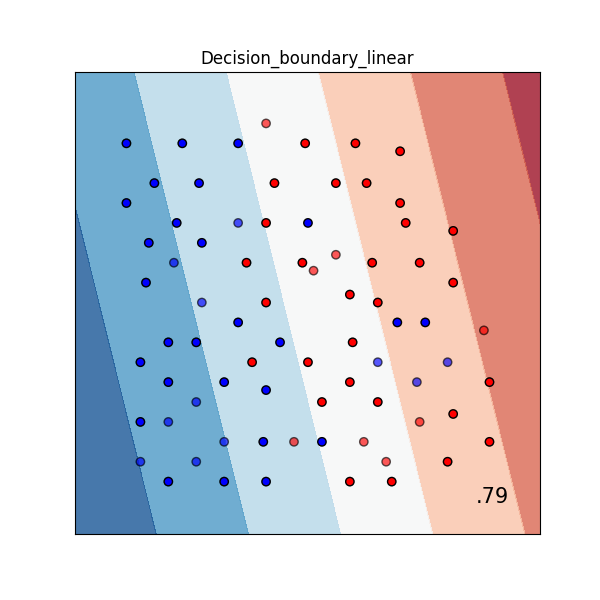
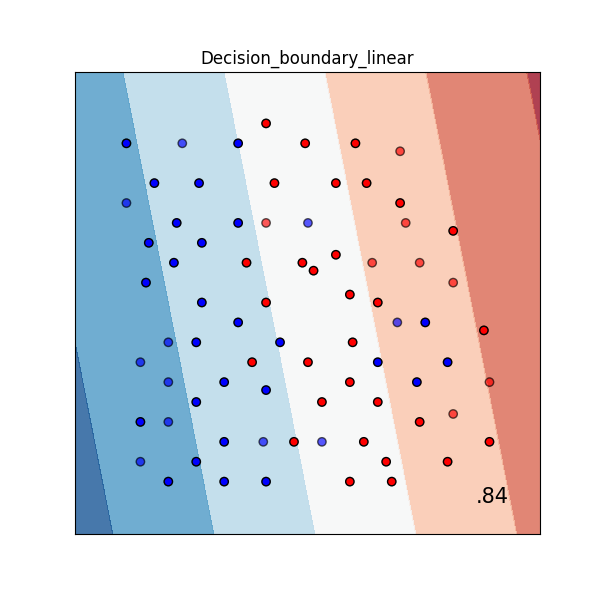
lab3: rbf angle done but chart looks weird

diff --git a/lab3/pum3-svm/main.py b/lab3/pum3-svm/main.py
@@ -122,7 +122,7 @@ def rbf_kernel_classic():
 
 def rbf_kernel_angular():
     def kernel_fun(X, Y):
-        distance = np.sum((Y - X[:, np.newaxis])**2, axis=-1)
+        distance = np.sum((Y - X[:, np.newaxis]) ** 2, axis=-1)  # todo nie brakuje pierwiastka???
         R_matrix = np.zeros(shape=distance.shape)
         R_matrix.fill(R)
         comparing_matrix = np.less(distance, R_matrix)
@@ -137,7 +137,7 @@ def rbf_kernel_angular():
 
 def rbf_kernel_linear():
     def kernel_fun(X, Y):
-        distance = np.sum((Y - X[:, np.newaxis])**2, axis=-1)
+        distance = np.sum((Y - X[:, np.newaxis]) ** 2, axis=-1)  # todo nie brakuje pierwiastka???
         R_matrix = np.zeros(shape=distance.shape)
         R_matrix.fill(R)
         comparing_matrix = np.subtract(R, distance)
@@ -155,9 +155,16 @@ def rbf_kernel_linear():
 
 def rbf_kernel_angle():
     def kernel_fun(X, Y):
-        cosinus = np.cos(X, Y)
-        print(cosinus)
-        return np.dot(X, Y.T)
+        x_size = X.shape[0]
+        y_size = Y.shape[0]
+        cosines = np.zeros(shape=(x_size, y_size))
+
+        print(f"counting for ({x_size}, {y_size})")
+        for i in range(x_size):
+            for j in range(y_size):
+                cosines[i][j] = np.dot(X[i], Y[j]) / (np.linalg.norm(X[i]) * np.linalg.norm(Y[j]))
+
+        return cosines
 
     rbf_angle = svm.SVC(kernel=kernel_fun)
     plot_decision_function(rbf_angle, f"angleRBF")
@@ -170,6 +177,7 @@ if __name__ == "__main__":
     # step 1: find decision boundary
     x = np.array(dataset.set1 + dataset.set2)
     y = [1] * len(dataset.set1) + [-1] * len(dataset.set2)
+    print(f"start X = {x.shape}, start y = {np.array(y).shape}")
 
     svc = svm.SVC()
     svc_linear = svm.SVC(kernel="linear")
@@ -203,7 +211,7 @@ if __name__ == "__main__":
     rbf_kernel_classic()
 
     # angular RBF
-    print("RBF kernel linear...")
+    print("RBF kernel angular...")
     rbf_kernel_angular()  # todo: no patrząc po wykresach raczej jest źle
 
     # linear RBF function

diff --git a/lab3/pum3-svm/test.py b/lab3/pum3-svm/test.py
@@ -1,10 +1,17 @@
 import numpy as np
 
 if __name__ == '__main__':
-    x = np.array([[1, 4, 8, 7]])
-    y = np.array([[0, 2, 3, 3]]).T
+    x = np.array([[3, 4], [0, 2], [8, 7], [1, 5]], dtype='float32')
+    y = np.array([[0, 2], [1, 1], [4, 5]], dtype='float32')
 
-    print(np.multiply(x, y))
-    print(x * y)
+    x_size = x.shape[0]
+    y_size = y.shape[0]
 
+    cosines = np.zeros(shape=(x_size, y_size))
+
+    for i in range(x_size):
+        for j in range(y_size):
+            cosines[i][j] = np.dot(x[i], y[j]) / (np.linalg.norm(x[i]) * np.linalg.norm(y[j]))
+
+    print(cosines)
 
